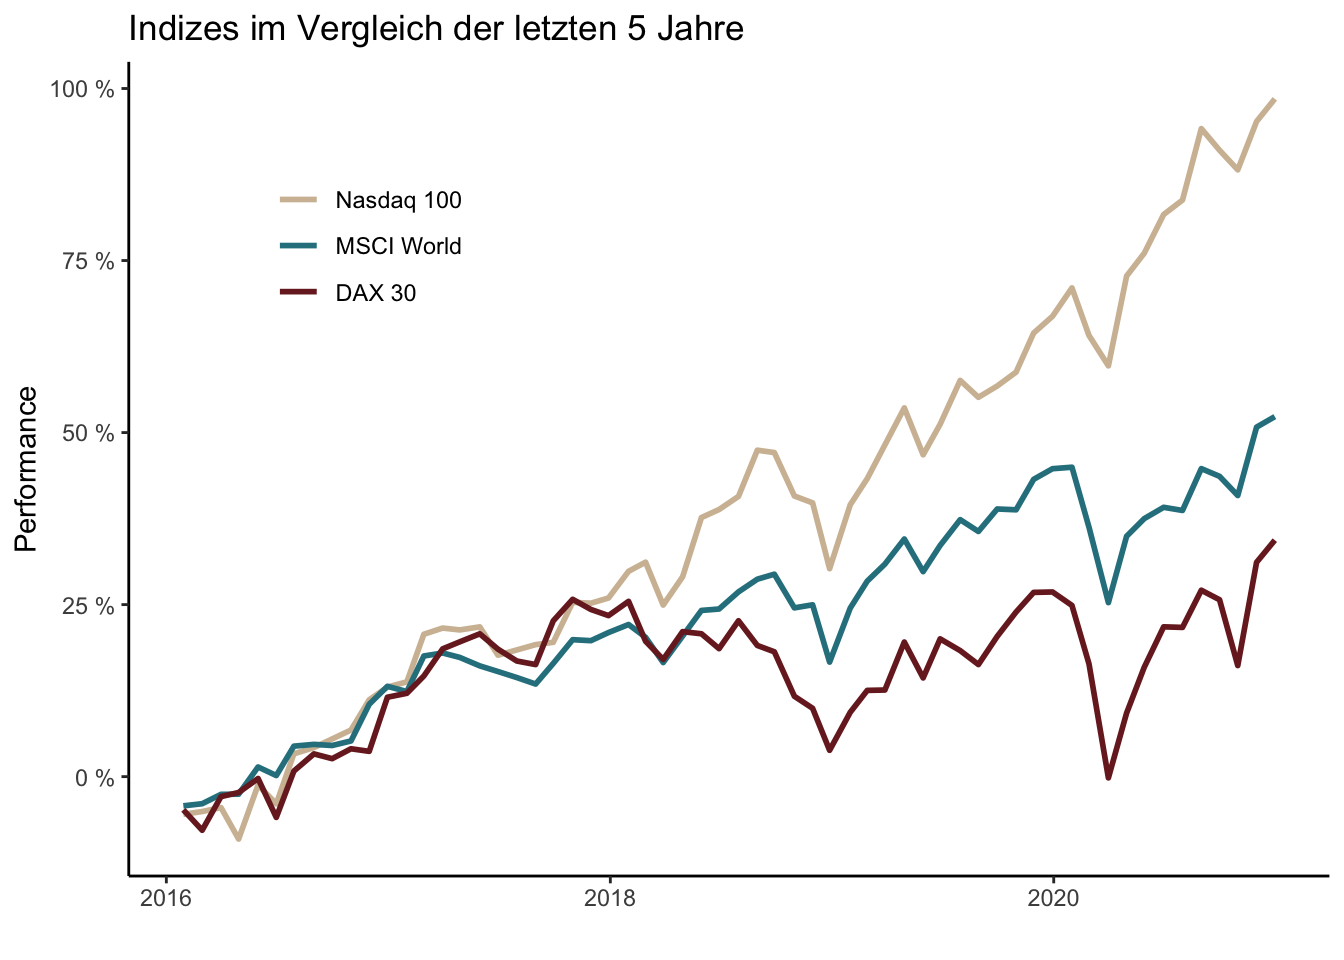
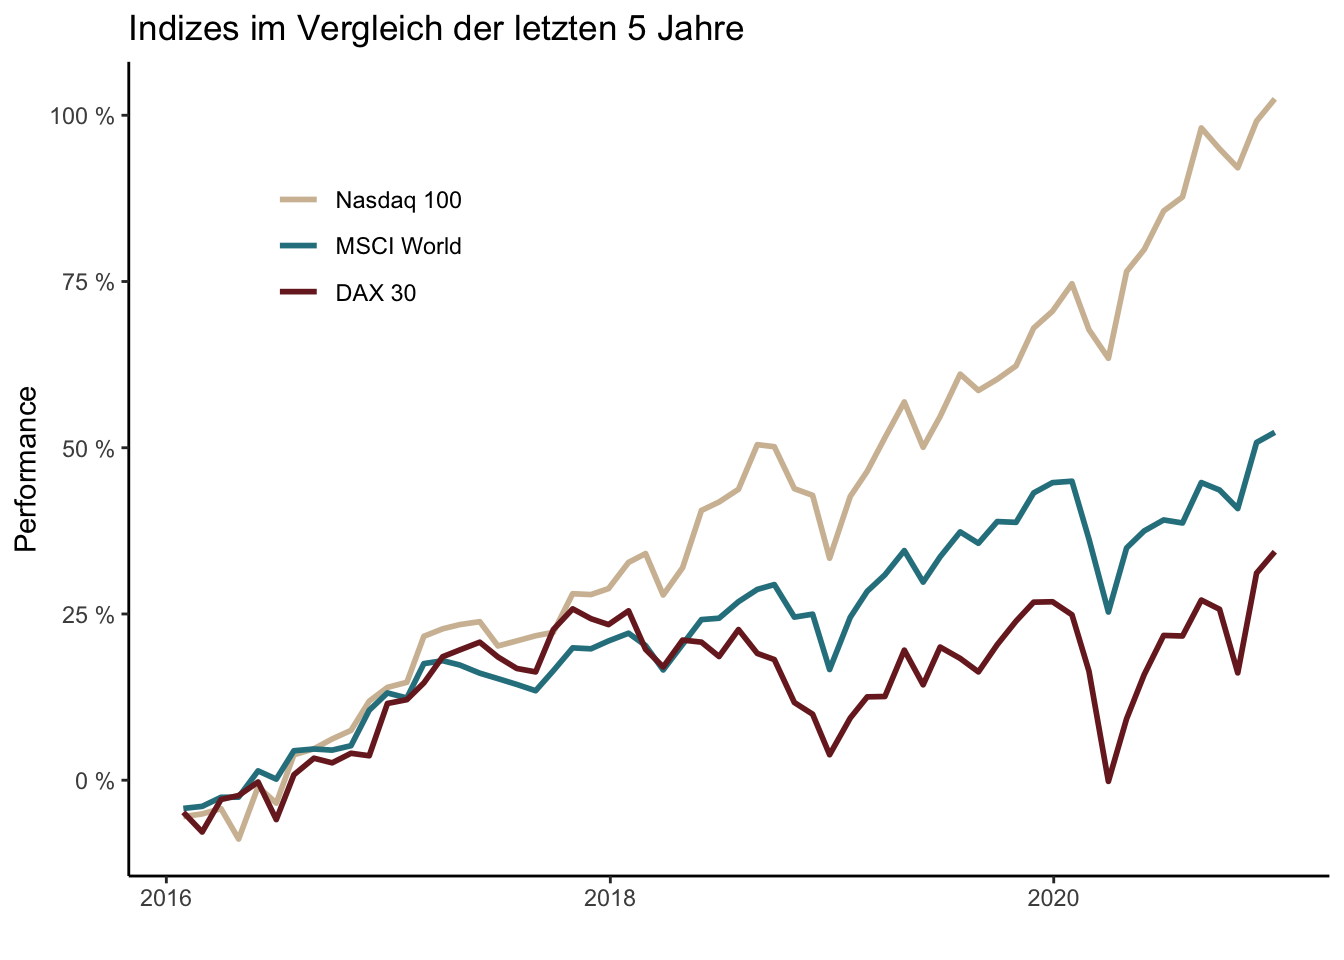
2024 analysis

diff --git a/docs/sparplan-2024.html b/docs/sparplan-2024.html
@@ -11,7 +11,7 @@
 
 
 
-<title>Sparplan der Kids 2020</title>
+<title>Sparplan der Kids 2024</title>
 
 <script src="site_libs/header-attrs-2.25/header-attrs.js"></script>
 <script src="site_libs/jquery-3.6.0/jquery-3.6.0.min.js"></script>
@@ -353,115 +353,45 @@ div.tocify {
 
 
 
-<h1 class="title toc-ignore">Sparplan der Kids 2020</h1>
-<h4 class="date">Letztes Update: 29.01.2021</h4>
+<h1 class="title toc-ignore">Sparplan der Kids 2024</h1>
+<h4 class="date">Letztes Update: 02.01.2025</h4>
 
 </div>
 
 
-<p><strong>Diese Webseite ist eine Beschreibung und Evaluation der
-Anlagestrategie der Sparpläne von Emil und Alva.</strong></p>
-<div id="emil" class="section level2">
-<h2>Emil</h2>
-<p>Die Einzahlungen von Emils Opas auf das Depotkonto werden seit April
-2020 jeweils zum 20. des Monats in einen ETF auf den Nasdaq-100
-angelegt. Zurzeit wird der thesaurierende <a
-href="https://www.amundietf.de/privatkunden/product/view/LU1681038243">Nasdaq-ETF
-von Amundi</a> bespart, da für diesen über den Broker <a
-href="https://www.maxblue.de">maxblue</a> bis September 2021 kein
-Ausgabeaufschlag erhoben wird.</p>
-<p>Der Nasdaq 100 hat sich in der zweiten Hälfte 2020 besser als der
-Gesamtmarkt entwickelt (16,3% Amundi Nasdaq 100 zu 12,6% Amundi MSCI
-World), wobei ein starker Euro die Rendite der ETFs mit hohem USD-Anteil
-gedrückt hat.</p>
-<p>Die Gelder von den Sparbüchern der Sparkasse und der Volksbank wurden
-im August und September in Amazon- und Apple-Aktien angelegt. Diese
-Aktien verzeichnen seitdem eine volatile Seitwärtsbewegung, was sich
-negativ auf die Rendite ausgewirkt hat.</p>
-<div class="superbigimage">
-<p><img src="index_files/figure-html/unnamed-chunk-4-1.png" width="672" /></p>
+<div id="emil-und-alva" class="section level2">
+<h2>Emil und Alva</h2>
+<p>Die Portfolios haben sich gut entwickelt und stehen Ende 2024
+deutlich im Plus. Emils Portfolio steht 62,4 % im Plus und Alvas 52,2
+%.</p>
+<p><img src="sparplan-2024_files/figure-html/unnamed-chunk-3-1.png" width="672" /></p>
+<p><img src="sparplan-2024_files/figure-html/unnamed-chunk-5-1.png" width="672" /></p>
 </div>
+<div id="der-nasdaq-100-etf-von-amundi" class="section level2">
+<h2>Der NASDAQ-100-ETF von Amundi</h2>
+<p>Der Sparbetrag wird monatlich in den <a
+href="https://www.justetf.com/en/etf-profile.html?isin=LU1681038243">Nasdaq-100-ETF
+von Amundi</a> angelegt. Im Jahr 2024 hat sich der ETF extrem gut
+entwickelt.</p>
+<p><img src="sparplan-2024_files/figure-html/unnamed-chunk-7-1.png" width="672" /></p>
 </div>
-<div id="alva" class="section level2">
-<h2>Alva</h2>
-<p>Die Einzahlungen von Alvas Opas auf das Depotkonto werden seit Juni
-2020 jeweils zum 20. des Monats in einen ETF auf den Nasdaq-100
-angelegt. Zurzeit wird der thesaurierende <a
-href="https://www.amundietf.de/privatkunden/product/view/LU1681038243">Nasdaq-ETF
-von Amundi</a> bespart, da für diesen über den Broker <a
-href="https://www.maxblue.de">maxblue</a> bis September 2021 kein
-Ausgabeaufschlag erhoben wird.</p>
-<p>Der Nasdaq 100 hat sich in der zweiten Hälfte 2020 besser als der
-Gesamtmarkt entwickelt (16,3% Amundi Nasdaq 100 zu 12,6% Amundi MSCI
-World), wobei ein starker Euro die Rendite der ETFs mit hohem USD-Anteil
-gedrückt hat.</p>
-<div class="superbigimage">
-<p><img src="index_files/figure-html/unnamed-chunk-7-1.png" width="672" /></p>
+<div id="starker-dollar-schwacher-euro" class="section level2">
+<h2>Starker Dollar, schwacher Euro</h2>
+<p>Das Verhältnis vom Dollar zum Euro hat sich im Jahr 2024 deutlich
+verändert. Der Euro hat im Vergleich zum Dollar an Wert verloren. Das
+ist gut für den Bestand und schlecht für das Kaufen von Anteilen.</p>
+<p><img src="sparplan-2024_files/figure-html/unnamed-chunk-8-1.png" width="672" /></p>
 </div>
-</div>
-<div id="ausblick-2021" class="section level2">
-<h2>Ausblick 2021</h2>
-<div id="sektorenwette-usa-und-it" class="section level3">
-<h3>Sektorenwette USA und IT</h3>
-<p>Die Investition in einen ETF auf den Nasdaq 100 ist eine
-Sektorenwette auf US-amerikanische Aktien mit hoher Markkapitalisierung.
-Dominiert wird der Nasdaq 100 von den Branchen IT und
-Kommunikationsdienste. Die Investition in den Nasdaq 100 folgt der
-Annahme, dass IT-Aktien mittel- und langfristig ein hohes Wachstum
-generieren werden. Dabei ist jedoch nicht auszuschließen, dass es nach
-den sehr guten Entwicklungen der Jahre 2019 und 2020 zu einer
-Konsolidierung und einem langsameren Wachstum im Jahr 2021 kommen kann.
-In der frühen Ansparphase ist ein langsameres Wachstum jedoch
-unproblematisch, da niedrigere Kurse den Erwerb von mehr ETF-Anteilen
-ermöglichen.</p>
-<p>Die nächste Abbildung zeigt die Performance der drei Indizes Nasdaq
-100, Dax 30 und MSCI World (jeweils in Euro) der letzten fünf Jahre
-(1.1.2016 bis 31.12.2020). Die Darstellung zeigt, dass die drei Indizes
-von Anfang 2016 bis Ende 2017 eine parallele Entwicklung hatten. Seit
-Anfang 2018 hat sich der Nasdaq deutlich besser entwickelt als der Dax
-30 und der MSCI World. Auch der MSCI World hat in diesem Zeitraum den
-Dax noch deutlich hinter sich gelassen. Aus der Unterschiedlichen
-Performance der drei Indizes lassen sich unterschiedliche Kaufsignale
-ableiten. Ein Argument ist, dass der Dax Nachholbedarf hat und sich
-deshalb in den kommenden Jahren stärker entwickeln wird. Ein anderes
-Argument lautet, dass der Trend des Nasdaq ungebrochen ist und sich
-dieser Index auch zukünftig stark entwickeln wird.</p>
-<div class="superbigimage">
-<p><img src="index_files/figure-html/unnamed-chunk-11-1.png" width="672" /></p>
-</div>
-</div>
-<div id="schwacher-dollarkurs" class="section level3">
-<h3>Schwacher Dollarkurs</h3>
-<p>Ein starker Euro kann die Rendite reduzieren. Der Anstieg des Euros
-von 1,12 Dollar auf 1,22 Dollar hat bereits die Rendite auf das gesamte
-Jahr 2020 bezogen um 9 Prozent reduziert. In der frühen Ansparphase wird
-diese Entwicklung als nicht bedrohlich bewertet, da ein starker Euro die
-US-amerikanischen Aktien (und somit die ETFs) billiger macht. Die
-Annahme ist, dass langfristig der Dollar wieder stärker wird. Kurz- und
-mittelfristig könnte der Euro jedoch noch weiter zulegen.</p>
-<p>Die nächste Abbildung zeigt die Entwicklung des Euro/Dollar-Kurses im
-Jahr 2020.</p>
-<div class="superbigimage">
-<p><img src="index_files/figure-html/unnamed-chunk-12-1.png" width="672" /></p>
-</div>
-<p>Im Jahr 2020 hat der Dollar etwa 9 % gegenüber dem Euro eingebüßt.
-Wird ein längerer Zeitraum betrachtet, ergibt sich jedoch eine fallende
-Tendenz des Euros. Im Zeitraum 2011 bis 2020 hat der Euro 9 % an Wert
-zum Dollar eingebüßt.</p>
-<p><img src="index_files/figure-html/unnamed-chunk-16-1.gif" width="100%" /></p>
-</div>
-<div id="thesaurierend-vs-ausschüttend" class="section level3">
-<h3>Thesaurierend vs ausschüttend</h3>
-<p>Der <a
-href="https://www.amundietf.de/privatkunden/product/view/LU1681038243">Nasdaq-ETF
-von Amundi</a> ist thesaurierend. Nach Auslaufen der
-Ausgabeaufschlagreduzierung könnte in einen ausschüttenden ETF
-investiert werden, um den Steuerfreibetrag besser auszunutzen. Die
-ausgeschütteten Erträge würden beim nächsten Kaufturnus wieder angelegt
-werden. Durch die niedrige Dividende des wachstumsorientierten ETFs ist
-dieser Effekt jedoch gering und rechtfertigt als alleinstehender Grund
-keinen Wechsel des Anlageprodukts.</p>
-</div>
+<div id="ausblick-2025" class="section level2">
+<h2>Ausblick 2025</h2>
+<p>Der wachstumsorientierte NASDAQ-100-ETF hat sich 2024 sehr gut
+entwickelt und somit hat sich die etwas riskioreichere Anlagestrategie
+(etwa im Vergleich zu einem breiter diversifizierten ETF auf den
+MSCI-World-Index) ausgezahlt. Wie sich die Märkte im Jahr 2025
+entwickeln werden, ist ungewiss. Da der Anlagehorizont der Kinder noch
+sehr lang ist, ist die kurzfristige Entwicklung jedoch weitestgehend
+unerheblich. Die Hauptsache ist, dass weiterhin kontinuierlich
+investiert wird.</p>
 </div>
 
 
